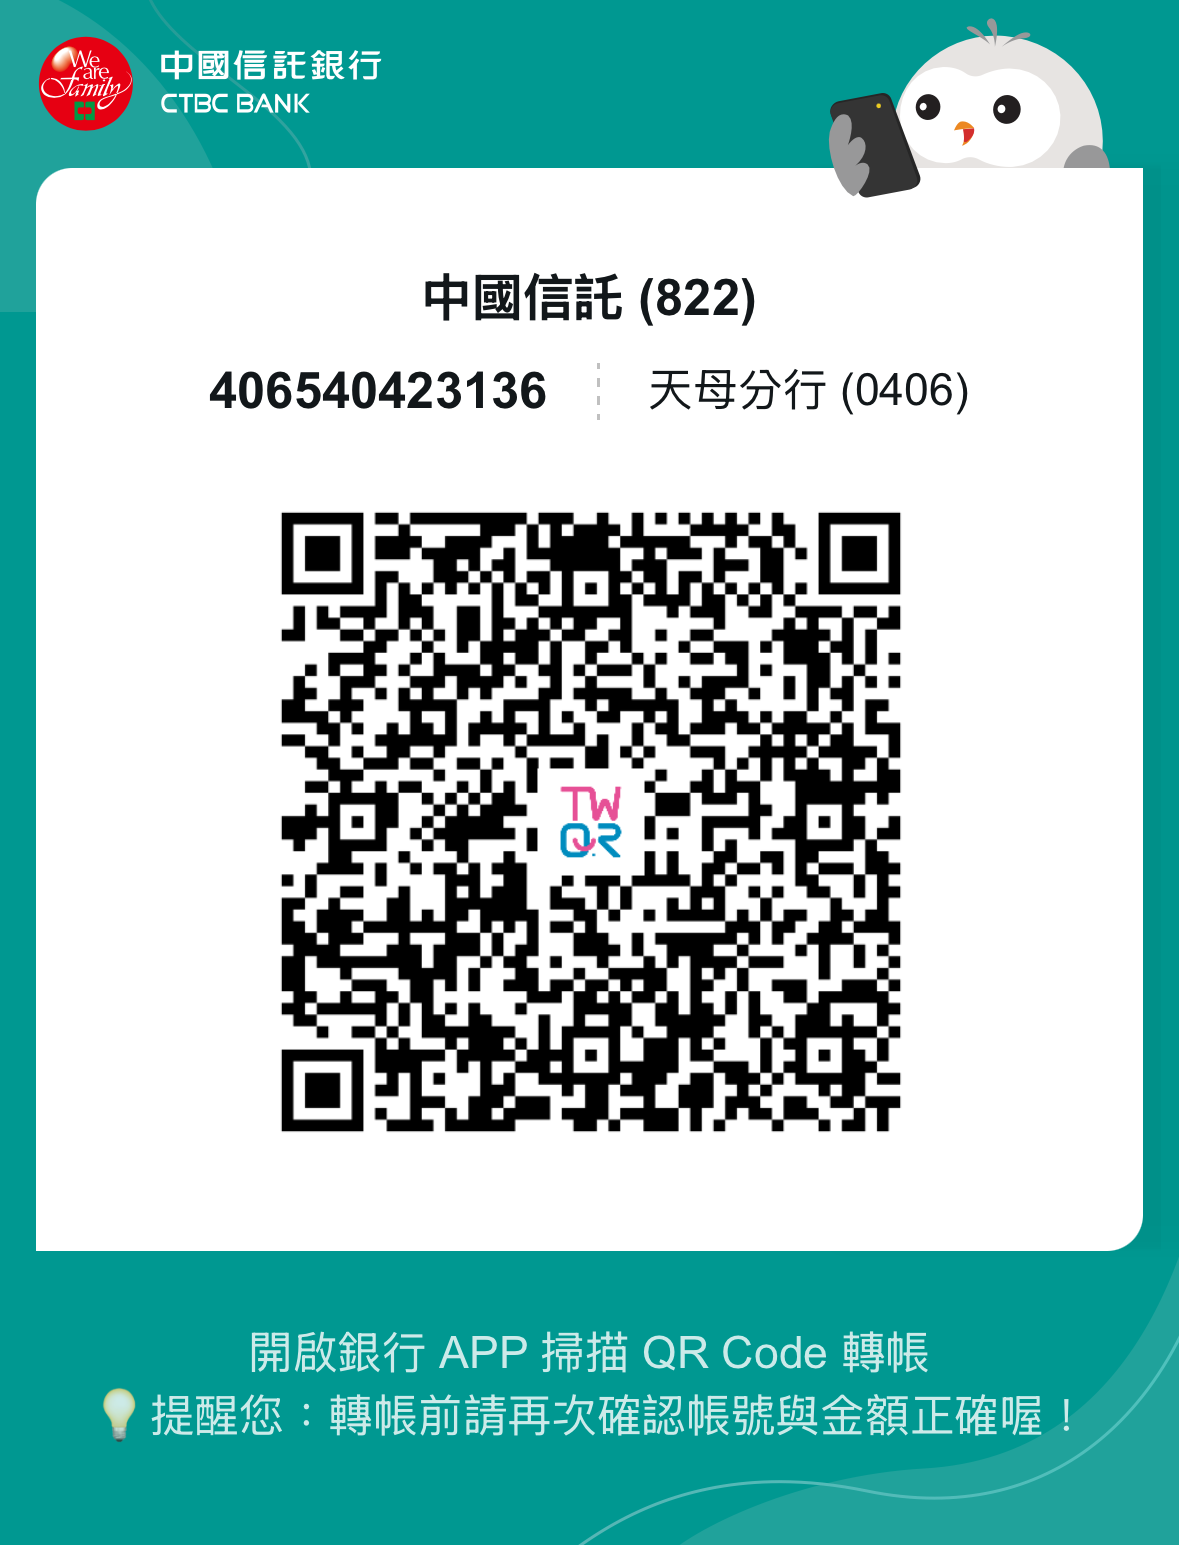
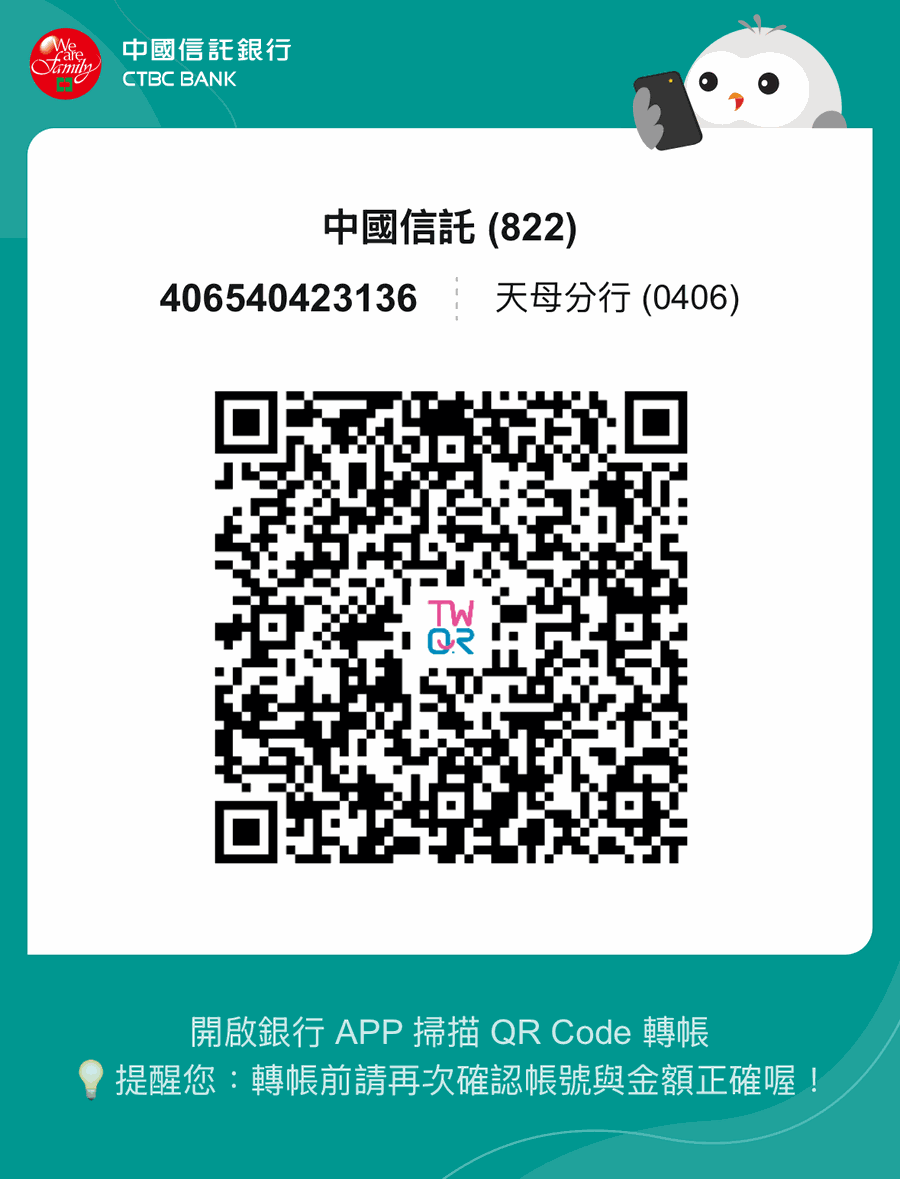
perf: compress donate page QR code images
Resize to 900px wide and recompress (836KB -> 262KB total); verified each
QR still decodes to the same payload. Update img width/height to match.

diff --git a/donate.html b/donate.html
@@ -122,7 +122,7 @@
 
     <article class="donate-card">
       <a class="donate-qr" href="images/bankQRcode/CTBC.png" target="_blank" rel="noopener">
-        <img src="images/bankQRcode/CTBC.png" alt="中國信託轉帳 QR code" width="1179" height="1545" loading="lazy">
+        <img src="images/bankQRcode/CTBC.png" alt="中國信託轉帳 QR code" width="900" height="1179" loading="lazy">
       </a>
       <div class="donate-info">
         <h3 class="donate-bank">中國信託 <span>822</span></h3>
@@ -133,7 +133,7 @@
 
     <article class="donate-card">
       <a class="donate-qr" href="images/bankQRcode/CATHAY.jpg" target="_blank" rel="noopener">
-        <img src="images/bankQRcode/CATHAY.jpg" alt="國泰世華轉帳 QR code" width="890" height="1230" loading="lazy">
+        <img src="images/bankQRcode/CATHAY.jpg" alt="國泰世華轉帳 QR code" width="894" height="1224" loading="lazy">
       </a>
       <div class="donate-info">
         <h3 class="donate-bank">國泰世華 <span>013</span></h3>
@@ -144,7 +144,7 @@
 
     <article class="donate-card">
       <a class="donate-qr" href="images/bankQRcode/JKO.jpg" target="_blank" rel="noopener">
-        <img src="images/bankQRcode/JKO.jpg" alt="街口支付 QR code" width="1800" height="2700" loading="lazy">
+        <img src="images/bankQRcode/JKO.jpg" alt="街口支付 QR code" width="900" height="1350" loading="lazy">
       </a>
       <div class="donate-info">
         <h3 class="donate-bank">街口支付 <span>396</span></h3>
